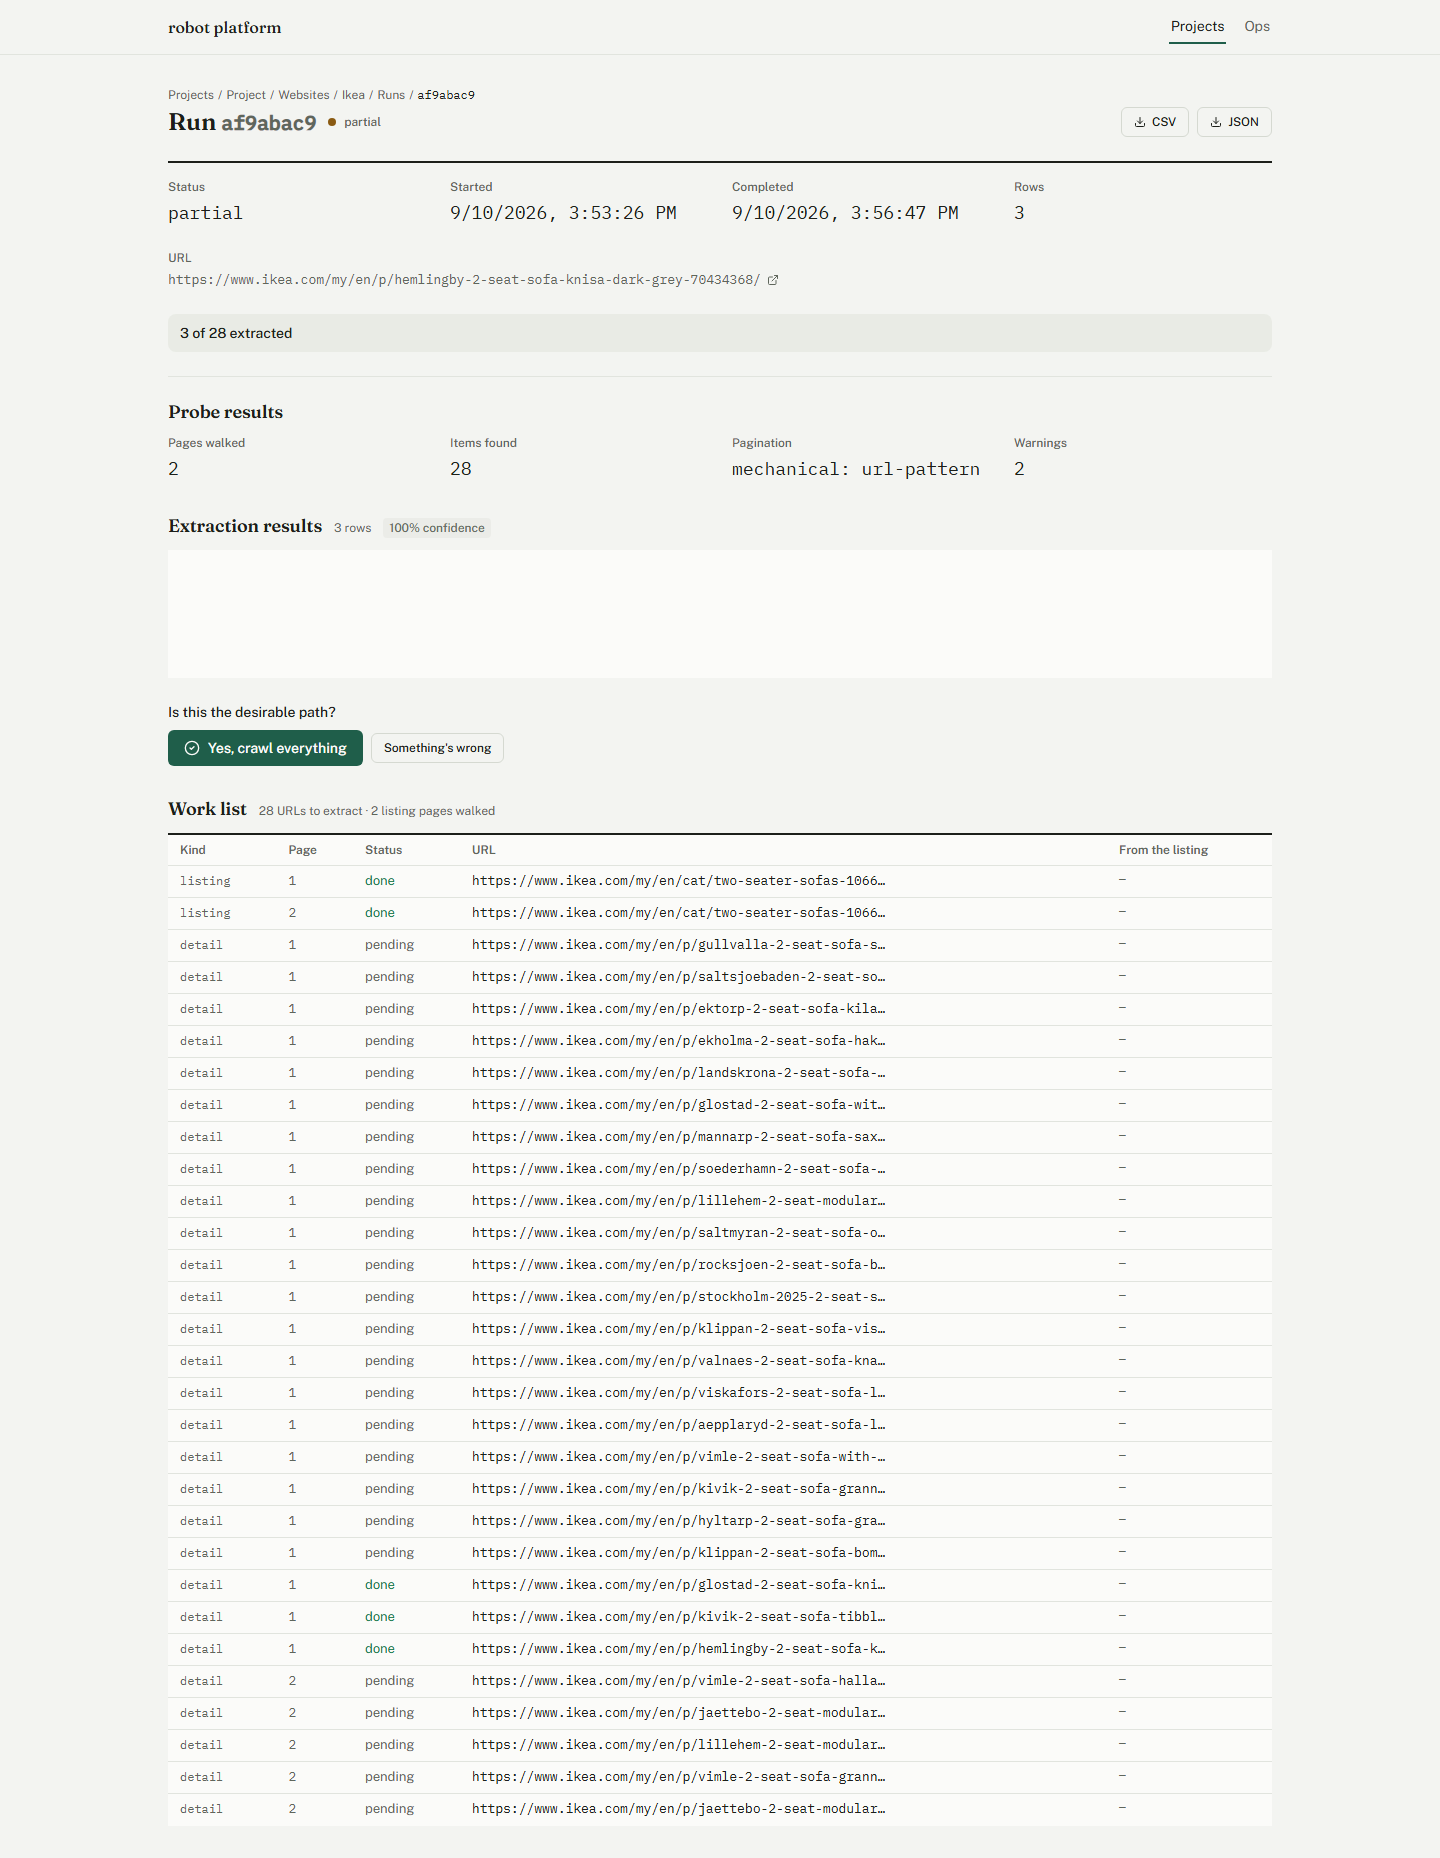
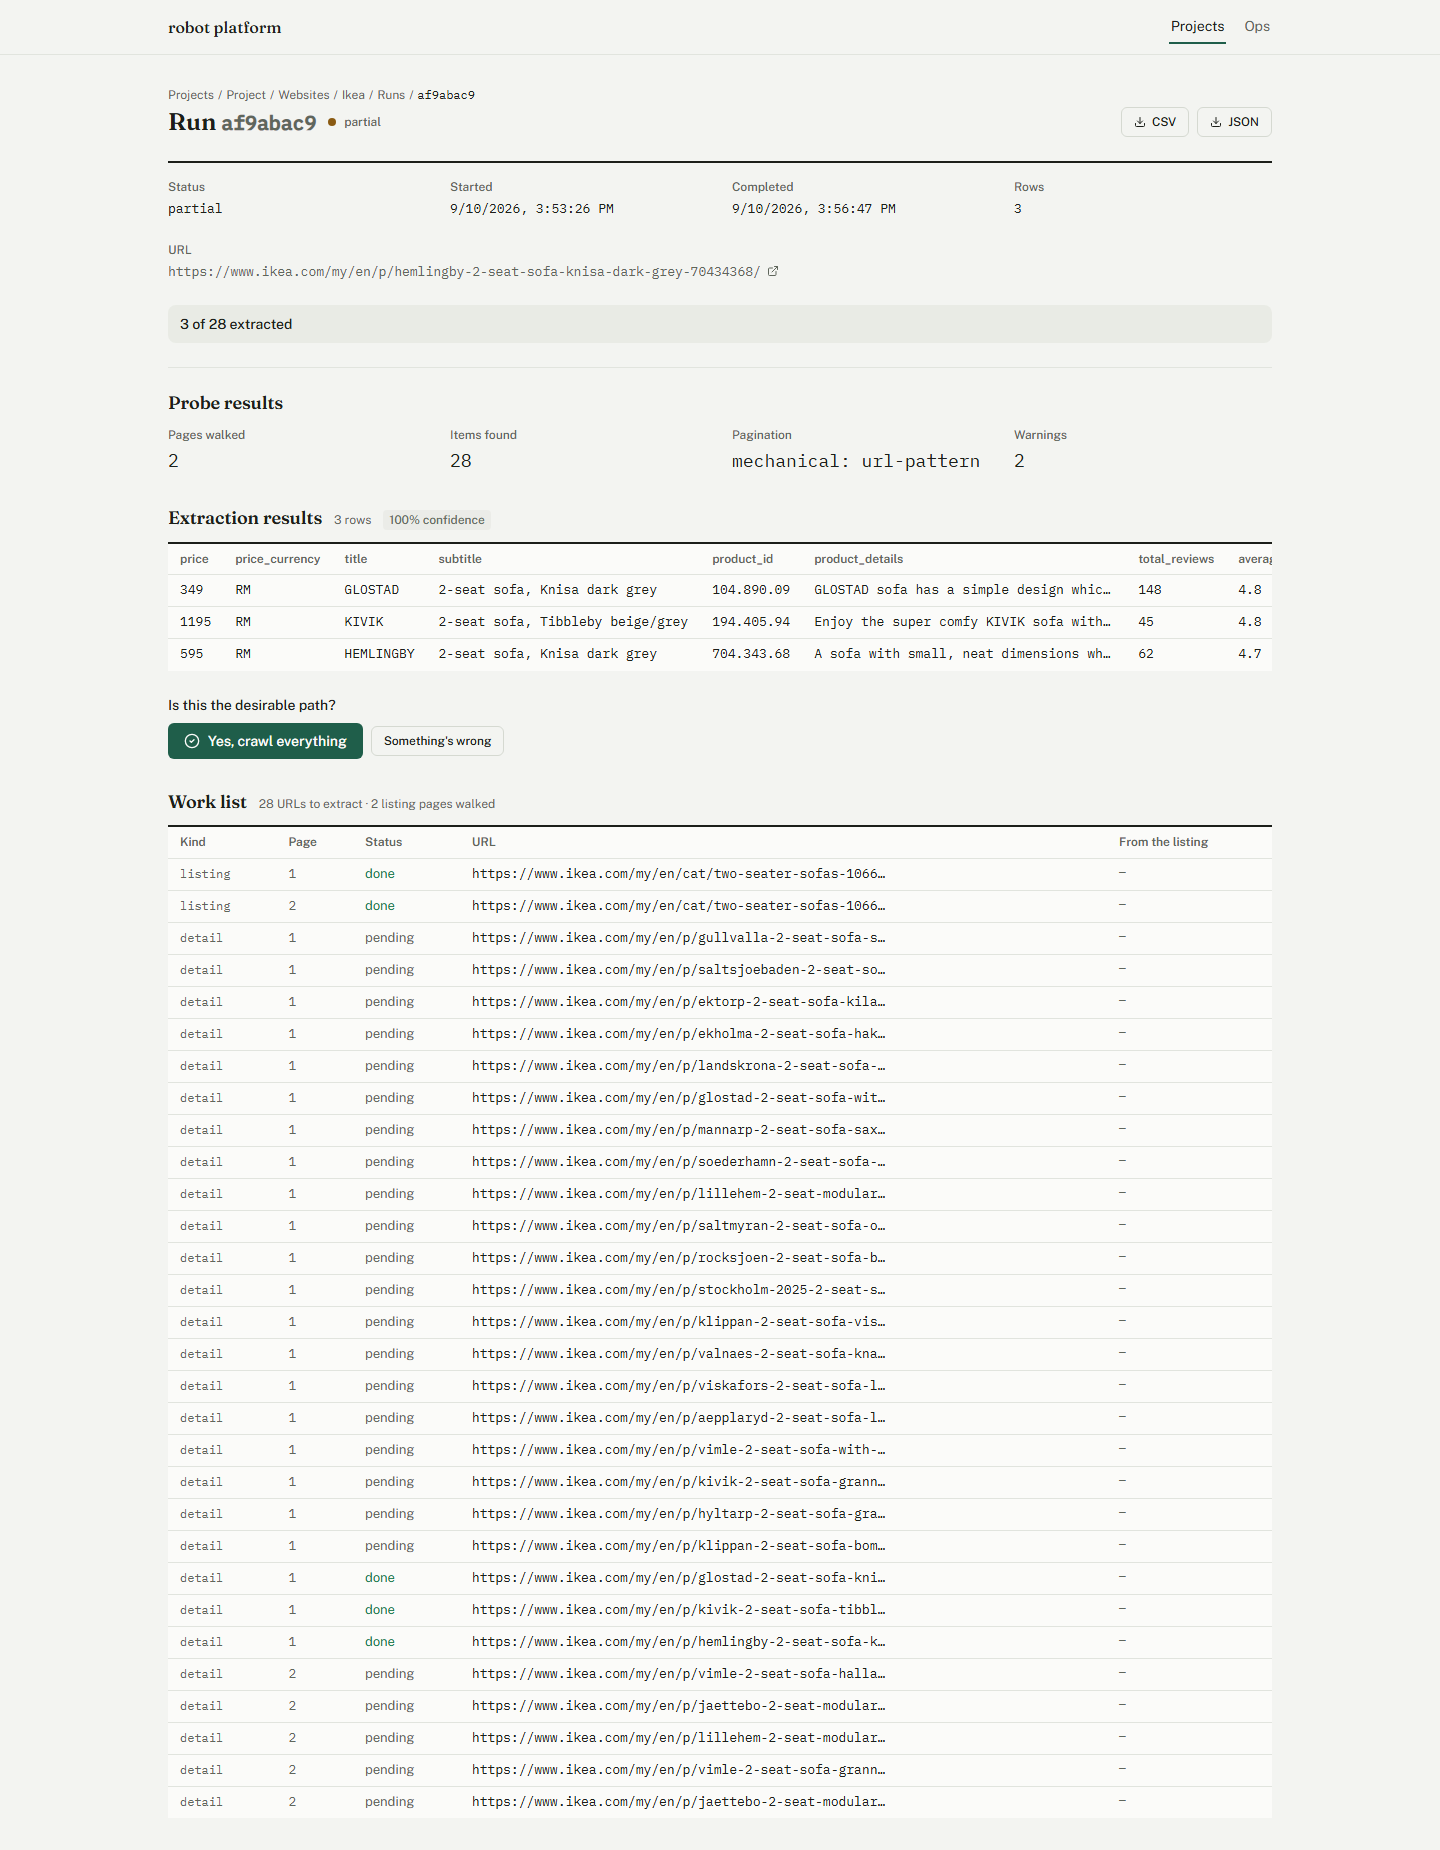
fix(dashboard): the run's results sheet falls back to the project contract
A verification-era website has no `selectorsJson.fields` — the contract
moved to its dataset in phase 2 — so the results sheet rendered with zero
columns and three blank rows. It now reads the same two places the
server's own effective schema does: the legacy field list when it has
any, else the contract, whose `key` is already the row key, the coverage
name and the `absentFields` name, so the gap filter and selection keep
working untranslated.

Also from review: `Stat` takes a size, so the header timestamps are 13px
again and only the probe gate's four evidence counts are figures; a fail
rail's value is ink and only its status line is fail-coloured; the two
wrapping strips share a new `strip-wrap` utility instead of hand-written
class lists.

Claude-Session: https://claude.ai/code/session_01AZ6EysmV6fcq3FxP33KFsw

diff --git a/packages/dashboard/src/routes/source-run-detail.tsx b/packages/dashboard/src/routes/source-run-detail.tsx
@@ -135,22 +135,46 @@ export default function SourceRunDetail() {
     ));
   };
 
+  // The project's contract, for the results table's columns (see `fields`
+  // below). Declared up here with the other hooks — after the early returns
+  // it would be a conditional hook — and disabled until the run's website has
+  // told us which dataset holds it.
+  const contractQuery = trpc.datasets.getContract.useQuery(
+    { datasetId: detailQuery.data?.source?.datasetId ?? '' },
+    { enabled: !!detailQuery.data?.source?.datasetId },
+  );
+
   if (detailQuery.isLoading) return <Spinner label="Loading run..." />;
   if (detailQuery.isError) return <ErrorBanner message={detailQuery.error.message} />;
   if (!detailQuery.data) return <NotFound what={`Run "${runId}"`} />;
 
   const { run, source, capture, extraction, backfillRuns } = detailQuery.data;
   const targetFields = Array.isArray(run.targetFields) ? (run.targetFields as string[]) : [];
-  // Pull field shape from the source's stored selectors if available — best-effort.
-  // `DETAIL_URL_FIELD` (packages/api/src/crawl/effective-schema.ts) is the
-  // synthetic row-scoped "which detail page" field that was written into
-  // `selectorsJson.fields` verbatim by the deleted `sources.analyze`
-  // procedure (removed 2026-09; no live writer — `runAnalysis`, the scraper
-  // router's pure schema-discovery function, persists nothing). It is
-  // filtered out of the server's effective schema but round-trips into this
-  // raw read of legacy data, so it must be excluded here too or it renders
-  // as a dead always-"—" column.
-  const fields = ((source as { selectorsJson?: { fields?: unknown[] } } | null)?.selectorsJson?.fields ?? []) as Array<{ name: string; type: string; enabled?: boolean }>;
+  // The results table's columns, from the same two places the server's own
+  // effective schema reads (`packages/api/src/crawl/effective-schema.ts`):
+  // the website's legacy `selectorsJson.fields` when it has any, else the
+  // project's contract on its dataset. The legacy list keeps priority so a
+  // discovery-era Source still renders exactly the columns it was extracted
+  // with, but it is empty for every verification-era website — the contract
+  // moved to the dataset in phase 2 (spec 4.1) — and an empty list rendered a
+  // results sheet with zero columns and blank rows. The contract is the right
+  // fallback because a row's own keys ARE contract keys: `effective-schema`
+  // maps each contract entry's `key` to the chain's field identifier and its
+  // `name` to the display label, which is why the mapping below is
+  // `key -> name` and `name -> label`, and why `coverage` names, `absentFields`
+  // and the gap filter all keep matching without translation.
+  //
+  // `DETAIL_URL_FIELD` (same file) is the synthetic row-scoped "which detail
+  // page" field that was written into `selectorsJson.fields` verbatim by the
+  // deleted `sources.analyze` procedure (removed 2026-09; no live writer —
+  // `runAnalysis`, the scraper router's pure schema-discovery function,
+  // persists nothing). It is filtered out of the server's effective schema
+  // but round-trips into this raw read of legacy data, so it must be excluded
+  // here too or it renders as a dead always-"—" column.
+  const legacyFields = ((source as { selectorsJson?: { fields?: unknown[] } } | null)?.selectorsJson?.fields ?? []) as Array<{ name: string; type: string; label?: string; enabled?: boolean }>;
+  const fields = legacyFields.length > 0
+    ? legacyFields
+    : (contractQuery.data ?? []).map((f) => ({ name: f.key, type: f.type, label: f.name }));
   const resultsTable = (
     <ResultsTable
       data={filteredData}
@@ -242,7 +266,7 @@ export default function SourceRunDetail() {
       {run.errorMessage && (
         <div className="mt-6 border-l-[3px] border-l-fail bg-fail-tint px-4 py-3">
           <div className="label-soft text-fail">Error</div>
-          <div className="mt-1 font-mono text-[13px] text-fail">{run.errorMessage}</div>
+          <div className="mt-1 font-mono text-[13px] text-gray-900">{run.errorMessage}</div>
         </div>
       )}
 
@@ -325,12 +349,23 @@ function ExportLink({ runId, format }: { runId: string; format: 'csv' | 'json' }
   );
 }
 
-/** One fact of a facts row: the label above, the value in mono below. */
-function Stat({ label, value }: { label: string; value: string }) {
+/**
+ * One fact of a facts row: the label above, the value in mono below.
+ *
+ * `'value'` is the table-sized default every ordinary fact uses. `'figure'`
+ * is the 18px reading reserved for the probe gate's four evidence counts,
+ * where the number itself is the thing being judged.
+ */
+function Stat({ label, value, size = 'value' }: { label: string; value: string; size?: 'value' | 'figure' }) {
   return (
     <div className="min-w-0">
       <dt className="label-soft">{label}</dt>
-      <dd className="mt-1 truncate font-mono text-lg text-gray-900" title={value}>{value}</dd>
+      <dd
+        className={`mt-1 truncate font-mono text-gray-900 ${size === 'figure' ? 'text-lg' : 'text-[13px]'}`}
+        title={value}
+      >
+        {value}
+      </dd>
     </div>
   );
 }
@@ -404,12 +439,11 @@ function ExecuteControls({ runId, probeUnconfirmed, backfill }: { runId: string;
     : null;
 
   return (
-    // Strip, not `card`: a status bar on paper-dark (spec 7). Written out
-    // rather than using the `strip` utility because that one locks a 38px
-    // height and clips its overflow — the notice and error lines below wrap
-    // onto their own row here.
-    <div className="mt-6 flex min-h-[38px] flex-wrap items-center gap-3 rounded-lg bg-paper-dark px-3 py-2">
-      <span className="text-sm font-medium text-gray-900">{progressLabel(data.counts, data.status)}</span>
+    // `strip-wrap`, not `card`: a status bar on paper-dark (spec 7), in the
+    // variant that grows instead of clipping — the notice and error lines
+    // below wrap onto their own row here.
+    <div className="strip-wrap mt-6">
+      <span className="font-medium">{progressLabel(data.counts, data.status)}</span>
       <div className="ml-auto flex items-center gap-2">
         {controls.showExtract && (
           <button
@@ -512,9 +546,9 @@ function CoverageActionBar({
 
   return (
     // Same strip as ExecuteControls, for the same reason (see there).
-    <div className="mt-6 flex min-h-[38px] flex-wrap items-center gap-3 rounded-lg bg-paper-dark px-3 py-2">
+    <div className="strip-wrap mt-6">
       {filterField && (
-        <span className="text-sm text-gray-900">
+        <span>
           {missingCount} {missingCount === 1 ? 'row' : 'rows'} missing{' '}
           <code className="font-mono text-[13px] text-gray-900">{filterField}</code>
         </span>
@@ -736,11 +770,11 @@ function WorkList({ runId }: { runId: string }) {
         <table className="sheet">
           <thead>
             <tr className="sheet-head sheet-row h-8">
-              <th className="px-3 text-left font-semibold">Kind</th>
-              <th className="px-3 text-left font-semibold">Page</th>
-              <th className="px-3 text-left font-semibold">Status</th>
-              <th className="px-3 text-left font-semibold">URL</th>
-              <th className="px-3 text-left font-semibold">From the listing</th>
+              <th className="px-3 text-left">Kind</th>
+              <th className="px-3 text-left">Page</th>
+              <th className="px-3 text-left">Status</th>
+              <th className="px-3 text-left">URL</th>
+              <th className="px-3 text-left">From the listing</th>
             </tr>
           </thead>
           <tbody>
@@ -888,10 +922,10 @@ function ProbeConfirmGate({
 
       {evidence ? (
         <dl className="mt-3 grid grid-cols-2 gap-x-6 gap-y-4 md:grid-cols-4">
-          <Stat label="Pages walked" value={String(evidence.pagesWalked)} />
-          <Stat label="Items found" value={String(evidence.itemsFound)} />
-          <Stat label="Pagination" value={evidence.paginationNote} />
-          <Stat label="Warnings" value={String(evidence.warningsCount)} />
+          <Stat size="figure" label="Pages walked" value={String(evidence.pagesWalked)} />
+          <Stat size="figure" label="Items found" value={String(evidence.itemsFound)} />
+          <Stat size="figure" label="Pagination" value={evidence.paginationNote} />
+          <Stat size="figure" label="Warnings" value={String(evidence.warningsCount)} />
         </dl>
       ) : itemsQuery.isError ? (
         <p className="mt-3 text-sm text-fail">

diff --git a/packages/dashboard/src/styles.css b/packages/dashboard/src/styles.css
@@ -51,6 +51,8 @@
 @utility sheet-row { @apply border-b border-gray-200; }
 /* Status strip (38px, paper-dark, radius 8). */
 @utility strip { @apply flex h-[38px] items-center gap-3 overflow-hidden rounded-lg bg-paper-dark px-3 text-sm text-gray-900; }
+/* The same strip for a bar whose contents wrap: it grows past 38px instead of clipping. */
+@utility strip-wrap { @apply flex min-h-[38px] flex-wrap items-center gap-3 rounded-lg bg-paper-dark px-3 py-2 text-sm text-gray-900; }
 @utility btn-primary { @apply inline-flex items-center justify-center gap-2 rounded-md bg-accent-600 px-4 text-sm font-medium text-white transition-colors hover:bg-accent-700 disabled:opacity-45 disabled:hover:bg-accent-600 disabled:pointer-events-none; }
 @utility btn-quiet { @apply inline-flex items-center justify-center gap-1.5 rounded-md border border-gray-300 bg-transparent px-3 py-1.5 text-xs font-medium text-gray-900 transition-colors hover:bg-gray-50 disabled:opacity-45 disabled:pointer-events-none; }
 /* The rail is the glyph. */
